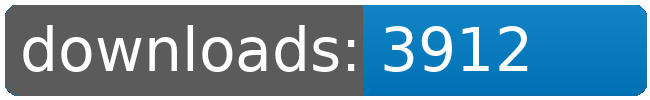
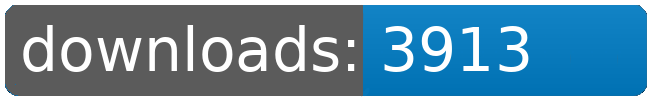
dl log written

Changed region(s): [[0.7692, 0.42, 0.8308, 0.72], [0.7692, 0.27, 0.8308, 0.39]]

diff --git a/README.md b/README.md
@@ -98,8 +98,8 @@
 		<td>3852</td>
 		<td>3871</td>
 		<td>3896</td>
-		<td>3912</td>
-		<td>+ 16</td>
+		<td>3913</td>
+		<td>+ 17</td>
 	</tr>
 	<tr>
 		<td></td>
@@ -109,8 +109,8 @@
 		<td></td>
 		<td></td>
 		<td></td>
-		<td>34018</td>
-		<td>126</td>
+		<td>34019</td>
+		<td>127</td>
 	</tr>
 </table>
 </sub></sup>
@@ -212,8 +212,8 @@
 		<td>3852</td>
 		<td>3871</td>
 		<td>3896</td>
-		<td>3912</td>
-		<td>+ 16</td>
+		<td>3913</td>
+		<td>+ 17</td>
 	</tr>
 	<tr>
 		<td></td>
@@ -223,8 +223,8 @@
 		<td></td>
 		<td></td>
 		<td></td>
-		<td>34018</td>
-		<td>126</td>
+		<td>34019</td>
+		<td>127</td>
 	</tr>
 </table>
 </sub></sup>
